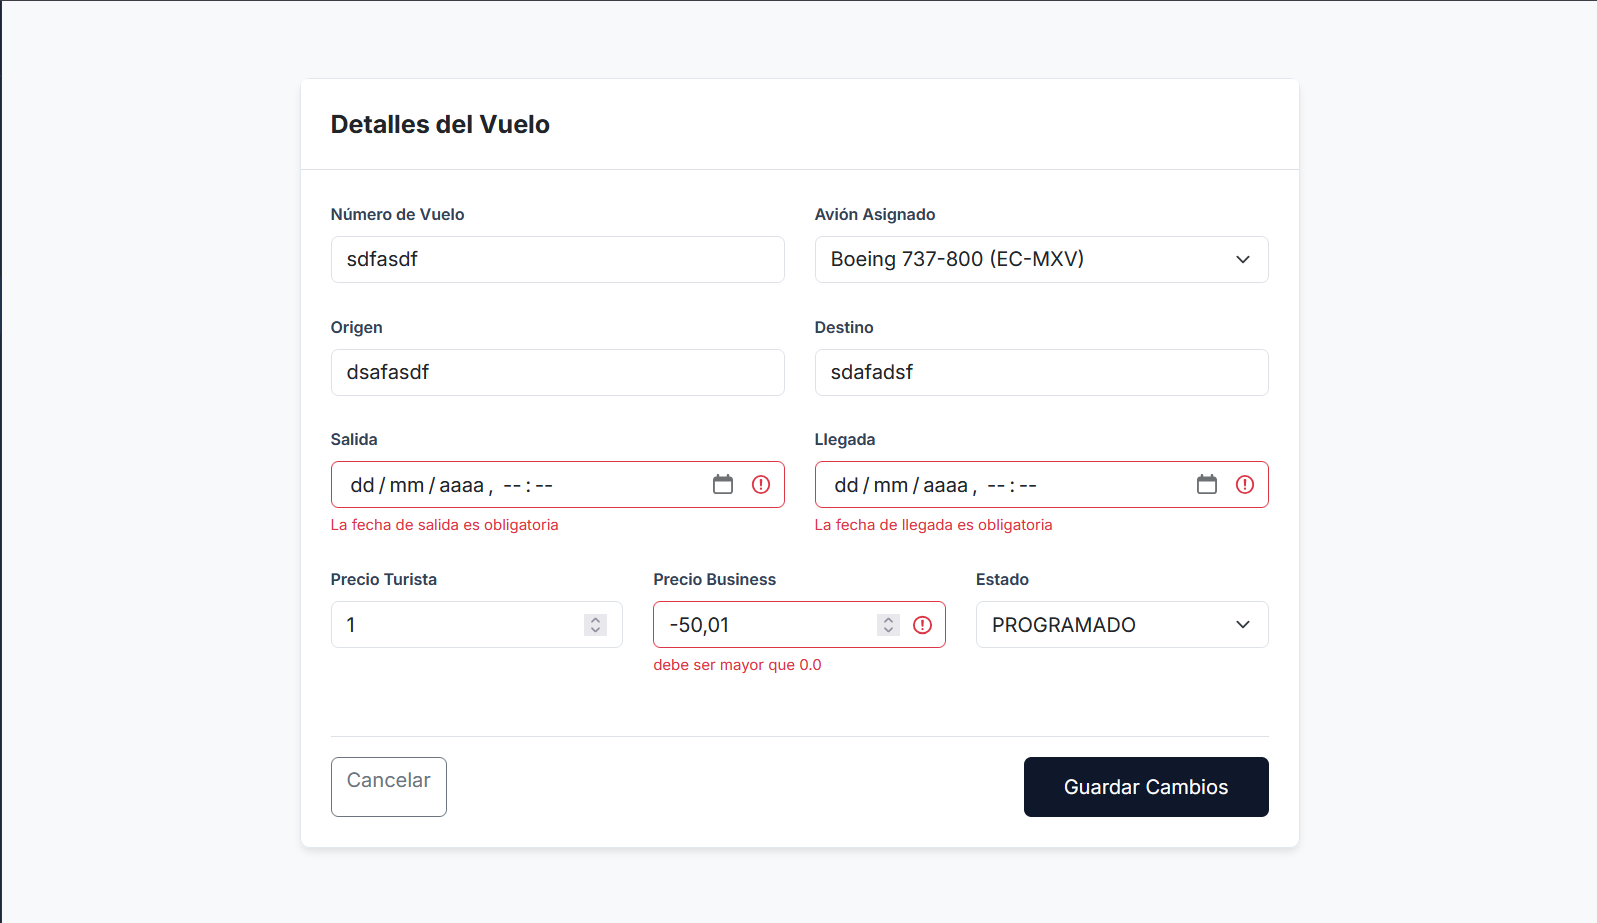
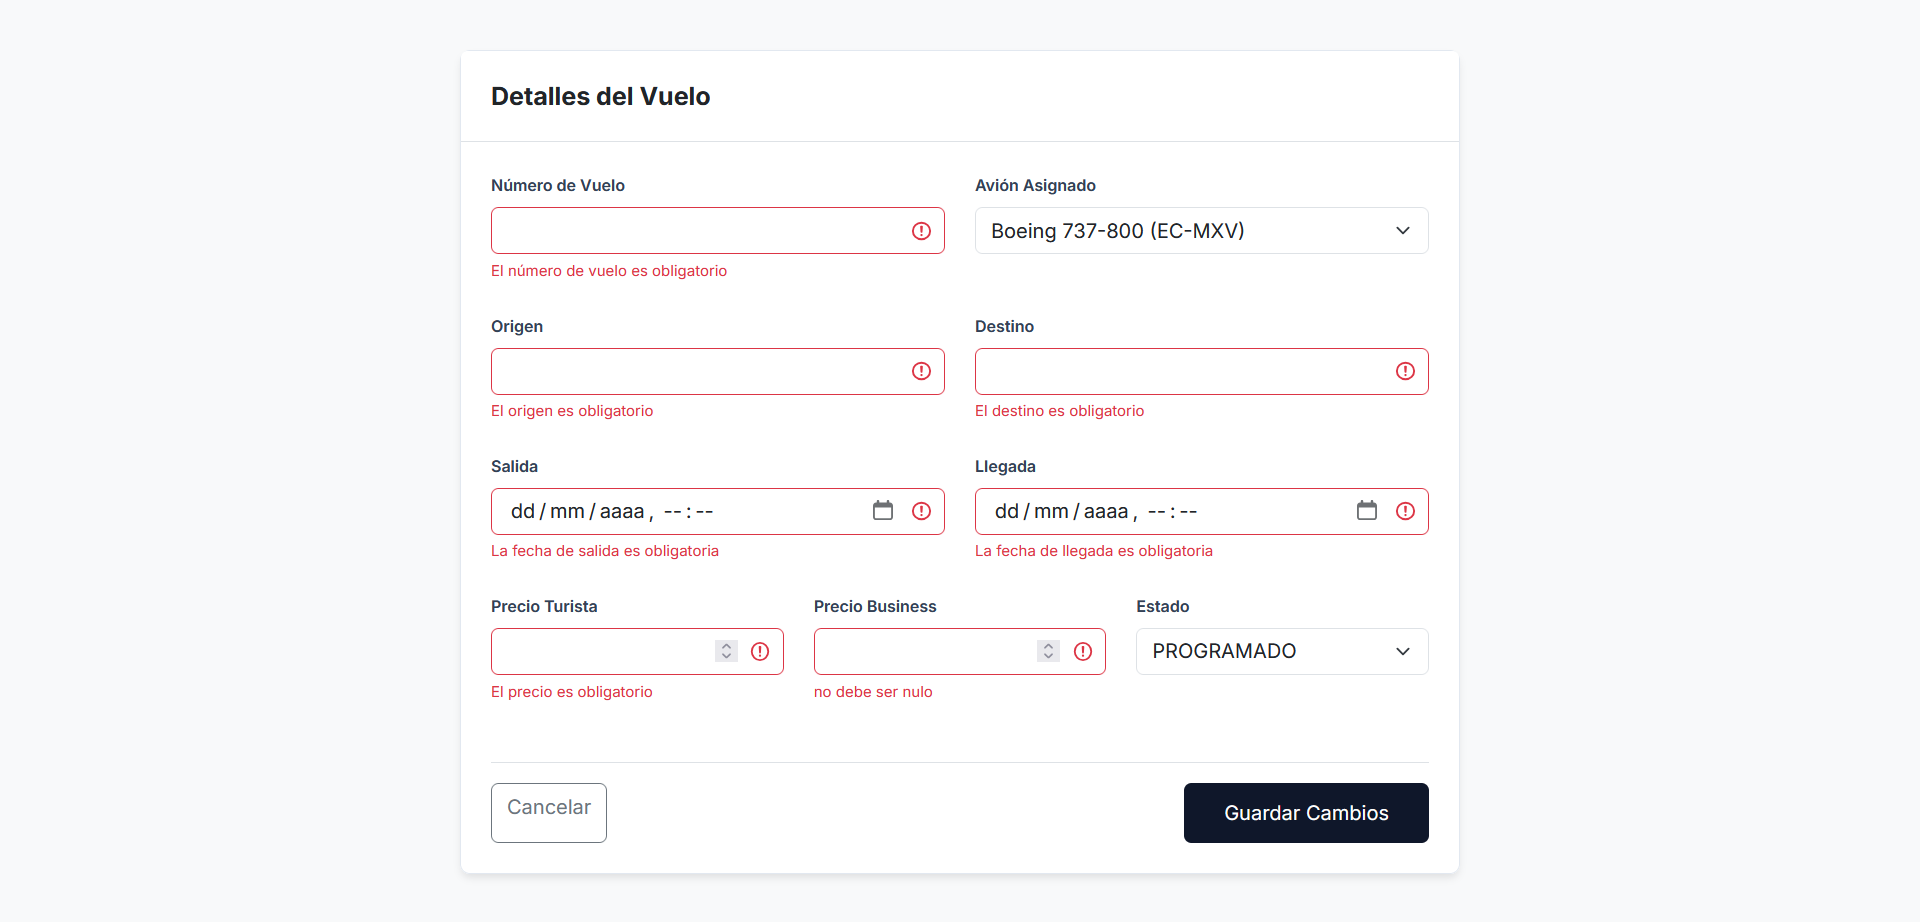
Modificación final del Readme.md

diff --git a/src/main/resources/templates/vuelos/formulario.html b/src/main/resources/templates/vuelos/formulario.html
@@ -7,19 +7,12 @@
     <link href="https://cdnjs.cloudflare.com/ajax/libs/font-awesome/6.4.0/css/all.min.css">
     <link href="https://fonts.googleapis.com/css2?family=Inter:wght@300;400;500;600;700&display=swap" rel="stylesheet">
     <style>
-        :root { --sidebar-bg: #1e293b; --sidebar-width: 260px; --header-height: 60px; }
+        :root { --header-height: 60px; }
         body { font-family: 'Inter', sans-serif; background-color: #f1f5f9; font-size: 0.875rem; }
 
-        /* Estilos copiados de tu archivo original */
-        .sidebar { width: var(--sidebar-width); height: 100vh; position: fixed; top: 0; left: 0; background-color: var(--sidebar-bg); color: #94a3b8; border-right: 1px solid rgba(255,255,255,0.05); z-index: 1000; display: flex; flex-direction: column; }
-        .sidebar-brand { height: var(--header-height); display: flex; align-items: center; padding: 0 1.5rem; color: white; font-weight: 700; font-size: 1.25rem; border-bottom: 1px solid rgba(255,255,255,0.1); background-color: rgba(0,0,0,0.1); }
-        .nav-link { color: #cbd5e1; padding: 0.75rem 1.5rem; display: flex; align-items: center; font-weight: 500; transition: all 0.2s; border-left: 3px solid transparent; text-decoration: none; }
-        .nav-link:hover { color: white; background-color: rgba(255,255,255,0.05); }
-        .nav-link.active { color: white; background-color: rgba(59, 130, 246, 0.1); border-left-color: #3b82f6; }
-        .nav-link i { width: 20px; margin-right: 10px; opacity: 0.8; }
-        .sidebar-heading { font-size: 0.75rem; text-transform: uppercase; letter-spacing: 0.05em; color: #64748b; padding: 1.5rem 1.5rem 0.5rem; font-weight: 700; }
+        /* Ajustado: margin: 0 para que ocupe el centro sin dejar hueco a la izquierda */
+        .main-content { margin: 0; padding: 2rem; display: flex; justify-content: center; align-items: center; min-height: 100vh; }
 
-        .main-content { margin-left: var(--sidebar-width); padding: 2rem; display: flex; justify-content: center; align-items: center; min-height: 100vh; }
         .card-form { background: white; border: 1px solid #e2e8f0; border-radius: 8px; box-shadow: 0 4px 6px -1px rgba(0, 0, 0, 0.1); width: 100%; max-width: 800px; }
         .form-label { font-weight: 600; color: #334155; font-size: 0.8rem; }
         .btn-primary-corp { background-color: #0f172a; color: white; padding: 0.75rem 2rem; border: none; }
@@ -30,19 +23,6 @@
     </style>
 </head>
 <body>
-<nav class="sidebar">
-    <div class="sidebar-brand"><i class="fas fa-plane-departure me-2"></i> KRAsky ERP</div>
-    <div class="d-flex flex-column flex-grow-1 py-3">
-        <div class="sidebar-heading">Principal</div>
-        <a href="/" class="nav-link"><i class="fas fa-chart-pie"></i> Dashboard</a>
-        <div class="sidebar-heading">Operaciones</div>
-        <a href="/web/vuelos" class="nav-link active"><i class="fas fa-plane"></i> Gestión Vuelos</a>
-        <a href="/web/reservas" class="nav-link"><i class="fas fa-ticket-alt"></i> Reservas y Billetes</a>
-        <div class="sidebar-heading">Recursos</div>
-        <a href="/web/pasajeros" class="nav-link"><i class="fas fa-users"></i> Base de Clientes</a>
-        <a href="/web/aviones" class="nav-link"><i class="fas fa-plane-up"></i> Flota Aérea</a>
-    </div>
-</nav>
 
 <div class="main-content bg-light">
     <div class="card card-form">
